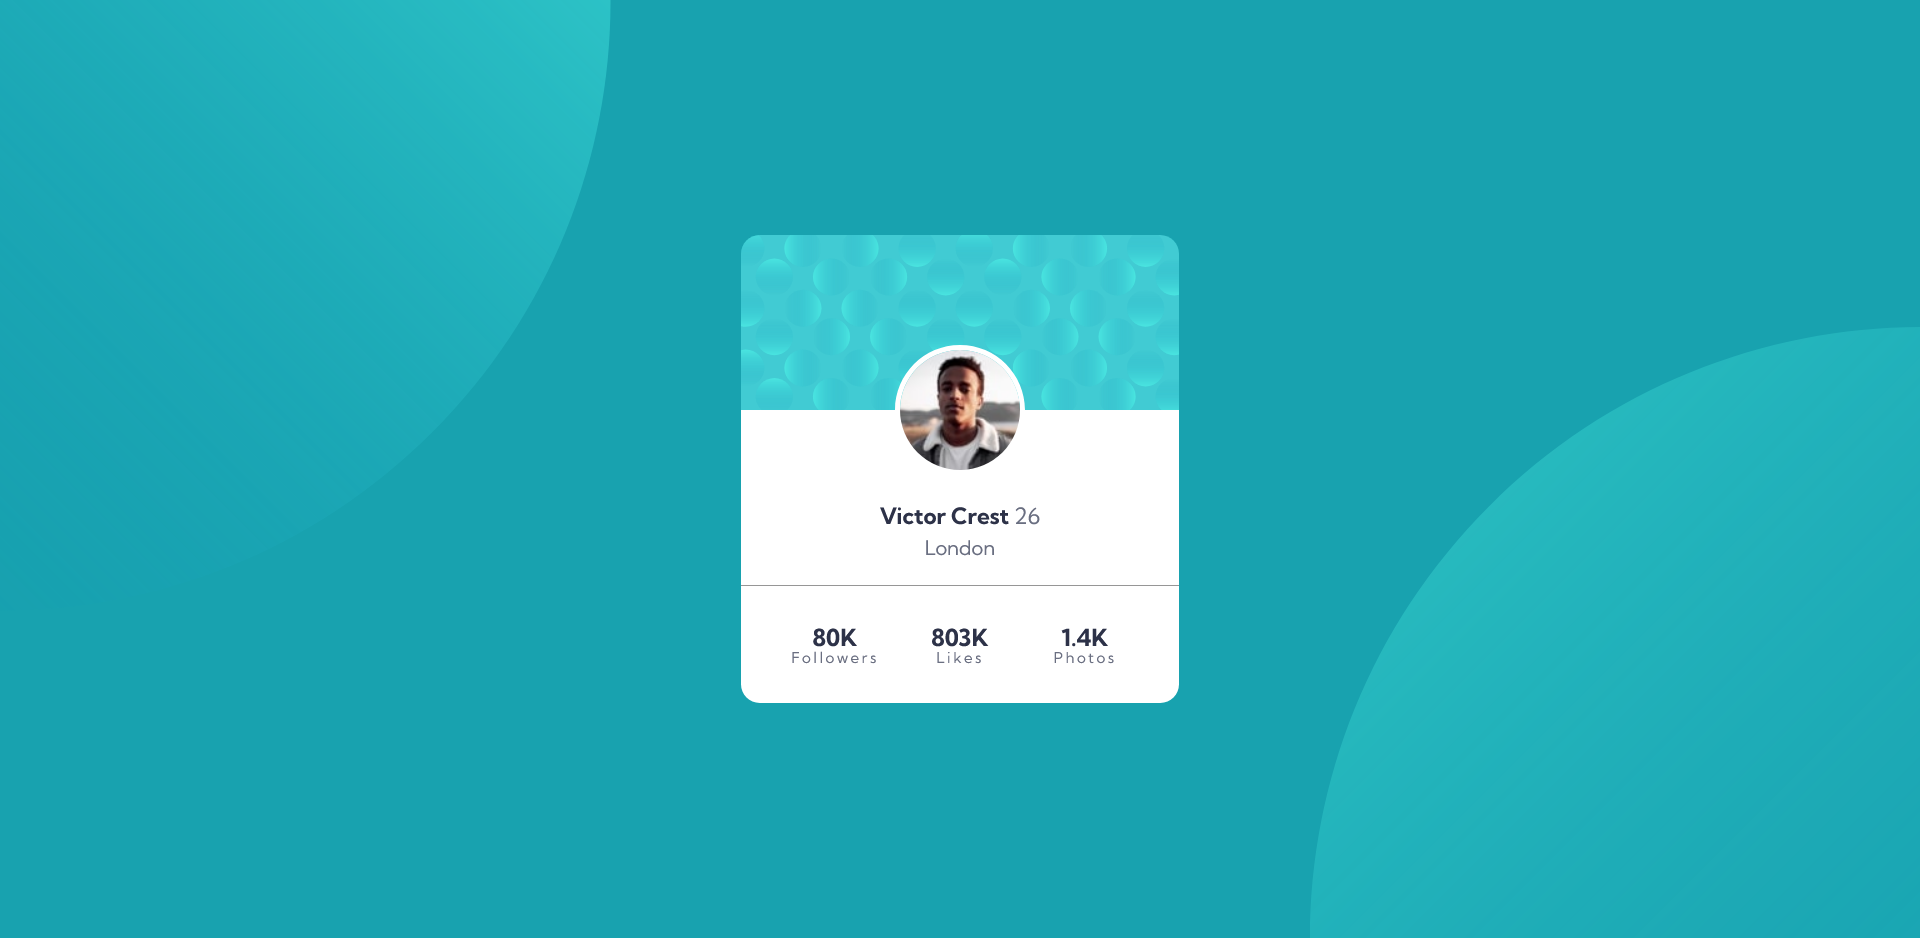
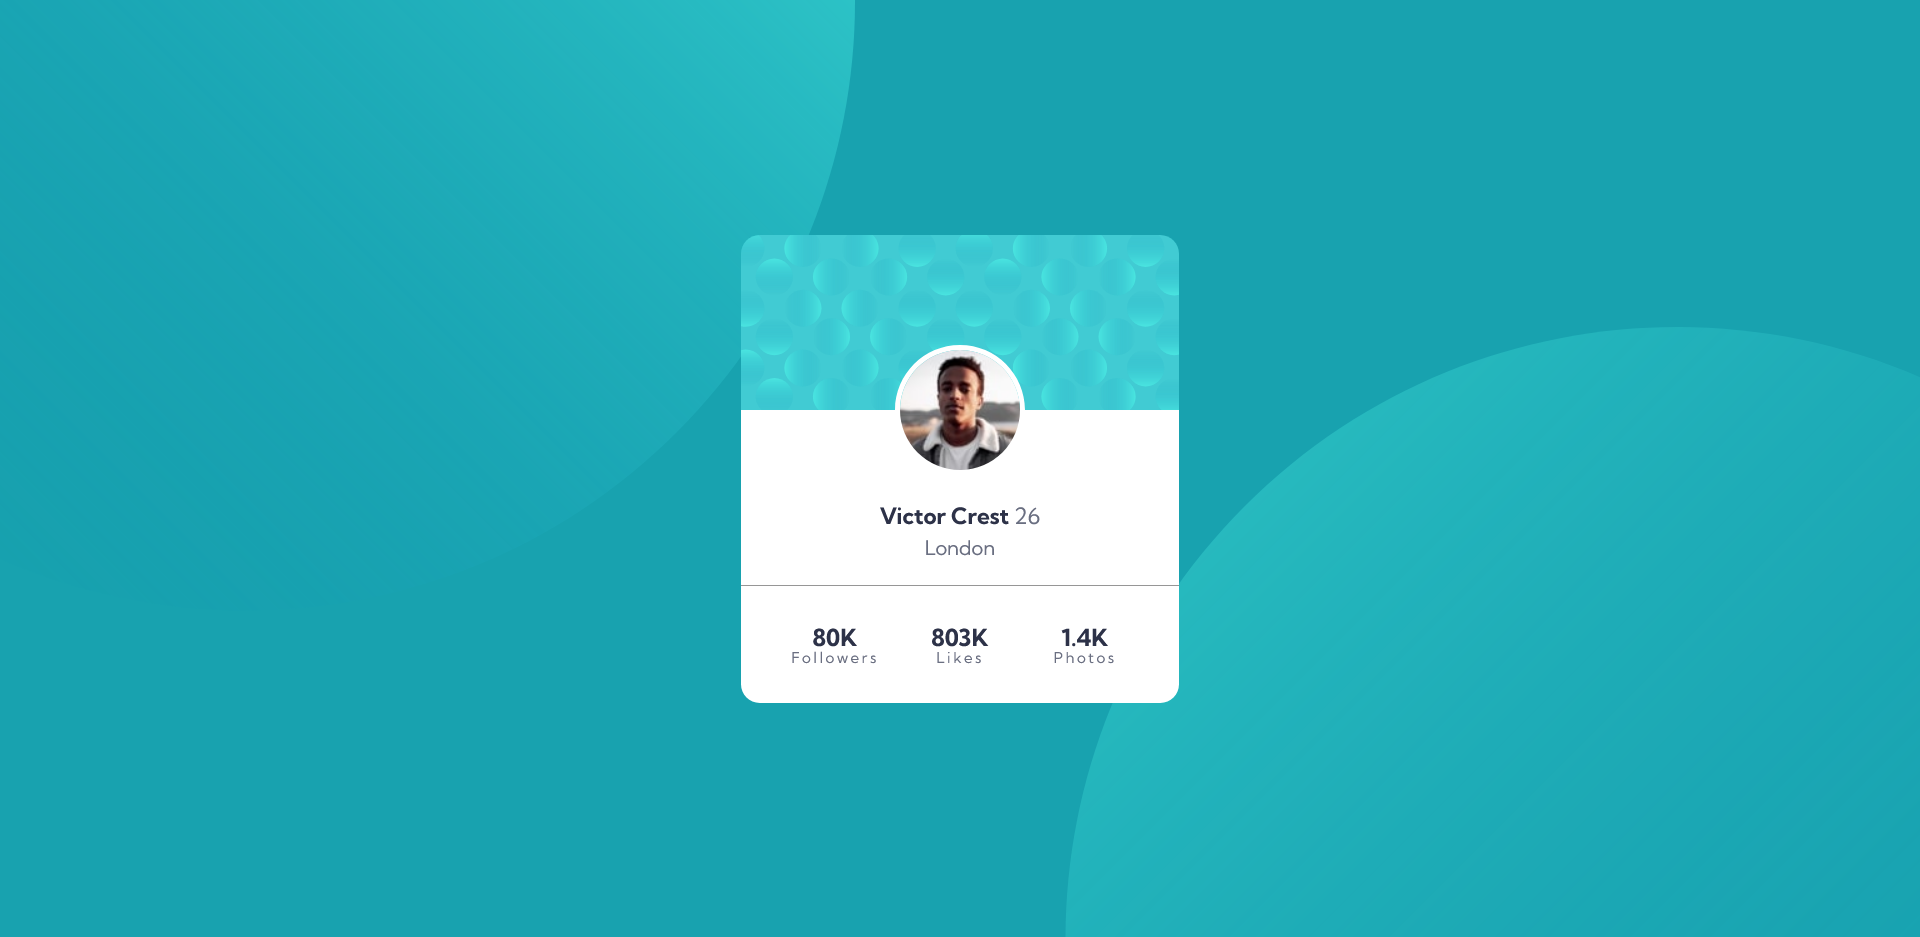
ostatnie poprawki

Changed region(s): [[0.3438, 0.0, 0.4688, 0.1547], [0.5, 0.5261, 0.5312, 0.5571], [0.4062, 0.6809, 0.4375, 0.7118]]

diff --git a/style.css b/style.css
@@ -1,5 +1,11 @@
-.attribution { font-size: 11px; text-align: center; }
-.attribution a { color: hsl(228, 45%, 44%); }
+.attribution {
+  font-size: 11px;
+  text-align: center;
+}
+
+.attribution a {
+  color: hsl(228, 45%, 44%);
+}
 
 * {
   padding: 0;
@@ -62,7 +68,7 @@ div.profil div.s1 {
   background-image: url('images/bg-pattern-card.svg');
 }
 
-div.profil div.s1 img{
+div.profil div.s1 img {
   position: absolute;
   bottom: 0;
   left: 50%;
@@ -89,7 +95,8 @@ div.profil div.s2 h2 {
   line-height: 30px;
 }
 
-h1, h3 {
+h1,
+h3 {
   font-weight: 700;
   color: hsl(229, 23%, 23%);
 }
@@ -107,7 +114,8 @@ div.s3 p {
   letter-spacing: 2PX;
 }
 
-h2, p {
+h2,
+p {
   font-weight: 400;
   color: hsl(227, 10%, 46%);
 }
@@ -117,9 +125,9 @@ div.profil div.s3 {
   flex-grow: 1;
   display: grid;
   width: 100%;
-  grid-template-columns:100px 100px 100px;
+  grid-template-columns: 100px 100px 100px;
   grid-template-rows: 2fr 2fr;
-  grid-template-areas: 
+  grid-template-areas:
     "hfirst hsecond hthird"
     "pfirst psecond pthird";
   background-color: white;
@@ -150,12 +158,13 @@ div.s3 p:nth-of-type(3) {
   grid-area: pthird;
 }
 
-    @media(min-width:1000px) and (orientation: landscape) {
+@media(min-width:1000px) and (orientation: landscape) {
 
-    section.pudlo svg.tlo1 {
-    transform: translate(-50%, -50%);
-    }
-    section.pudlo svg.tlo2 {
-    transform: translate(50%, 50%);
-    }
+  section.pudlo svg.tlo1 {
+    transform: translate(-30%, -50%);
+  }
+
+  section.pudlo svg.tlo2 {
+    transform: translate(30%, 50%);
+  }
 }

diff --git a/README.md b/README.md
@@ -9,8 +9,6 @@ This is a solution to the [Profile card component challenge on Frontend Mentor](
   - [Screenshot](#screenshot)
 - [My process](#my-process)
 
-**Note: Delete this note and update the table of contents based on what sections you keep.**
-
 ## Overview
 
 ### The challenge
@@ -20,8 +18,10 @@ This is a solution to the [Profile card component challenge on Frontend Mentor](
 
 ### Screenshot
 
+- My solution fot landscape
 ![My solution fot landscape](./design/Landscape.png)
 
+- My solution fot portrait
 ![My solution fot portrait](./design/Portrait.png)
 ![](./screenshot.jpg)
 
